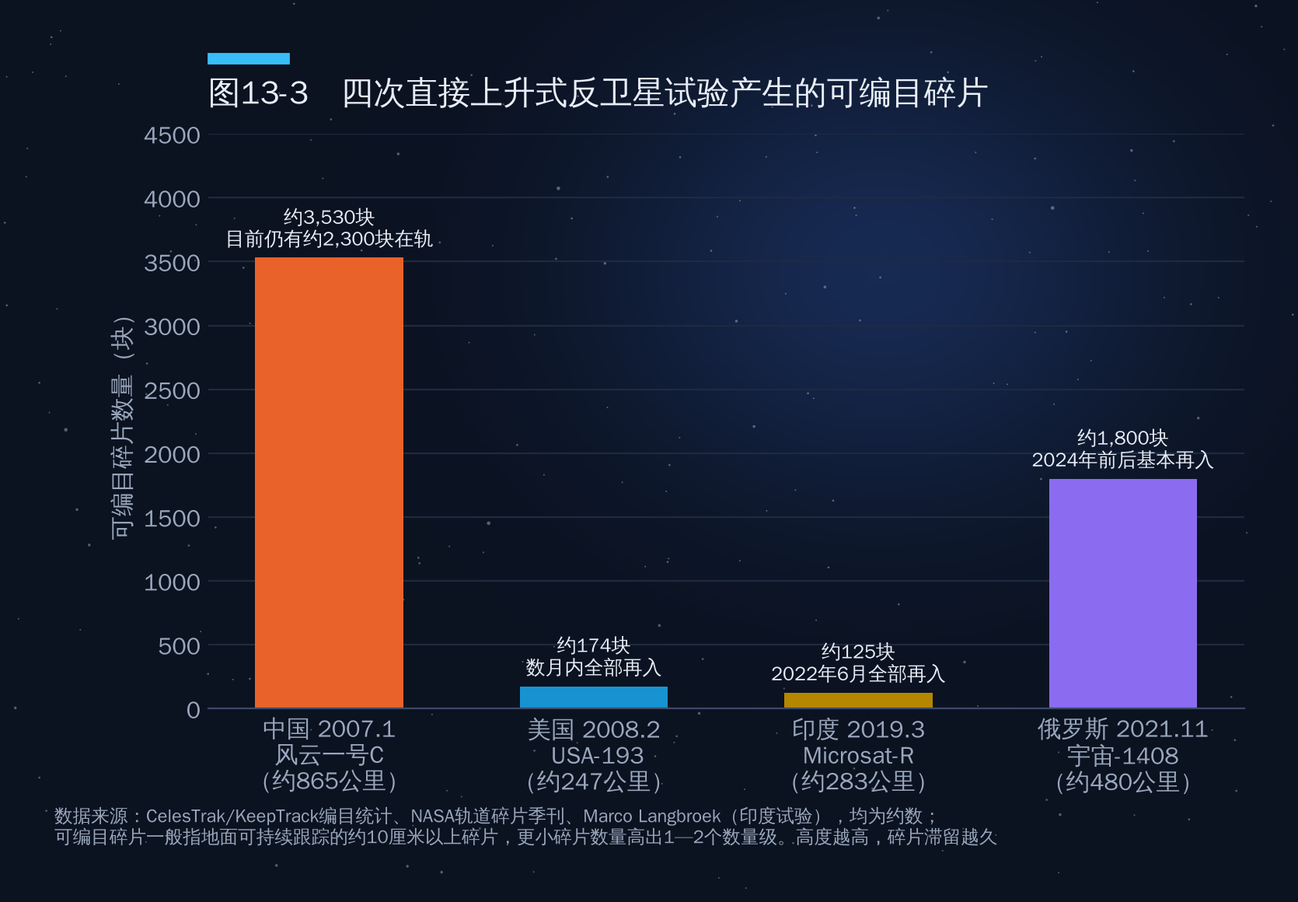
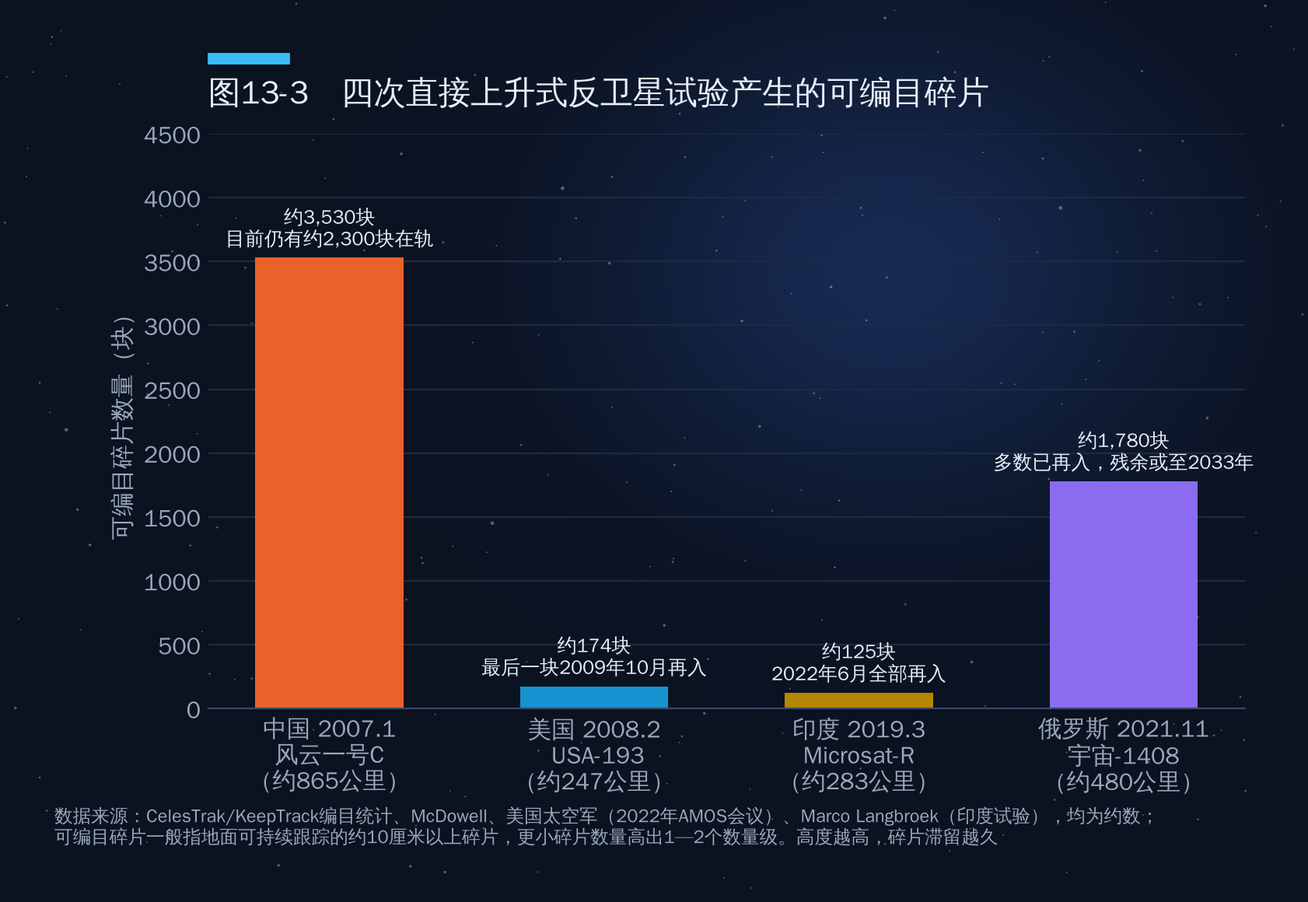
Part II: third-round exhaustive fact-check; fig 9-3 adds IN/KR/AE/SA
Claude-Session: https://claude.ai/code/session_014tmLkR5ogaDPRCKC77QLgm

diff --git a/doha-space-economy/part2/charts/fig9-3_gov_budget_by_country.py b/doha-space-economy/part2/charts/fig9-3_gov_budget_by_country.py
@@ -13,18 +13,24 @@ rows = [  # 名称, 支出, GDP（欧盟为机构预算，不计算占比）
     ("法国", 3.7, 3162),
     ("德国", 2.8, 4660),
     ("意大利", 2.6, 2373),
+    # 以下四项为Novaspace第25版2025年数据（经newspaceeconomy.ca转引Novaspace 2026年1月20日发布），不计算占比
+    ("印度*", 1.794, None),
+    ("韩国*", 1.167, None),
+    ("阿联酋*", 0.574, None),
+    ("沙特*", 0.530, None),
 ]
 names = [r[0] for r in rows]
 y = list(range(len(rows)))[::-1]
-fig, axes = plt.subplots(1, 2, figsize=(10, 5), gridspec_kw={"width_ratios": [1.25, 1]})
+fig, axes = plt.subplots(1, 2, figsize=(10, 6), gridspec_kw={"width_ratios": [1.25, 1]})
 
 ax = axes[0]
-cols = [PALETTE[0], ACCENT] + [PALETTE[2]] * 6
+cols = [PALETTE[0], ACCENT] + [PALETTE[2]] * 6 + [PALETTE[4]] * 4
 ax.barh(y, [r[1] for r in rows], color=cols, height=0.6)
 for yi, r in zip(y, rows):
-    ax.text(r[1] + 1.2, yi, f"{r[1]:.1f}", va="center", fontsize=10)
+    ax.text(r[1] + 1.2, yi, f"{r[1]:.1f}" if r[1] >= 1 else f"{r[1]:.2f}", va="center", fontsize=10)
 ax.set_yticks(y); ax.set_yticklabels(names)
 ax.set_xlim(0, 92)
+ax.set_ylim(-0.7, len(rows) - 0.4)
 ax.grid(axis="x"); ax.grid(axis="y", visible=False)
 ax.set_xlabel("十亿美元（2024年）")
 ax.set_title("政府航天支出", fontsize=12)
@@ -33,17 +39,19 @@ ax = axes[1]
 shares = [(r[1] / r[2] * 100) if r[2] else None for r in rows]
 for yi, s, c in zip(y, shares, cols):
     if s is None:
-        ax.text(0.005, yi, "不适用", va="center", fontsize=9.5, color=GREY)
+        ax.text(0.005, yi, "不适用" if yi == y[3] else "未计算", va="center", fontsize=9.5, color=GREY)
         continue
     ax.barh(yi, s, color=c, height=0.6)
     ax.text(s + 0.006, yi, f"{s:.2f}%", va="center", fontsize=10)
 ax.set_yticks(y); ax.set_yticklabels([])
 ax.set_xlim(0, 0.34)
+ax.set_ylim(-0.7, len(rows) - 0.4)
 ax.grid(axis="x"); ax.grid(axis="y", visible=False)
 ax.set_xlabel("占本国GDP比重（%）")
 ax.set_title("投入强度：占GDP比重", fontsize=12)
 
-fig.suptitle("图9-3　主要国家和地区政府航天支出及占GDP比重（2024年）", fontsize=14, fontweight="bold", y=1.02)
+fig.suptitle("图9-3　主要国家和地区政府航天支出及占GDP比重（2024年；*为2025年）", fontsize=14, fontweight="bold", y=1.02)
 source_note(fig, "数据来源：支出为Novaspace《Government Space Programs》第24版（经Statista转引），含民用与国防；中国为外部估算。\n"
-                 "GDP为IMF《世界经济展望》2025年4月版2024年名义值，占比为作者计算。欧洲各国与欧盟机构的数字口径可能交叉，不宜相加。")
+                 "GDP为IMF《世界经济展望》2025年4月版2024年名义值，占比为作者计算。欧洲各国与欧盟机构的数字口径可能交叉，不宜相加。\n"
+                 "*印度、韩国、阿联酋、沙特为Novaspace第25版2025年数据（经newspaceeconomy.ca转引），年份不同，仅供量级参考。")
 save(fig, __file__)

diff --git a/doha-space-economy/part4/charts/fig13-2_filings_vs_deployed.py b/doha-space-economy/part4/charts/fig13-2_filings_vs_deployed.py
@@ -8,7 +8,7 @@ rows = [
     ("卢旺达 Cinnamon-217/937\n（2021年申报）", 327320, None),
     ("中国 CTC-1/CTC-2\n（2025年12月申报）", 193428, None),
     ("SpaceX 星链\n（一代+二代）", 42000, 10900),
-    ("中国 千帆（垣信）", 14000, 238),
+    ("中国 千帆（垣信，规划数）", 14000, 238),
     ("中国 国网（GW）", 12992, 204),
     ("中国 鸿鹄-3（蓝箭关联）", 10000, None),
     ("亚马逊 Leo（柯伊伯）", 3236, 396),
@@ -21,7 +21,7 @@ h = 0.38
 fig, ax = plt.subplots(figsize=(9.2, 5.4))
 ax.barh(y - h/2, filed, h, color=GREY, label="向ITU申报/拟建数量")
 dep_vals = [d if d else 0 for d in dep]
-ax.barh(y + h/2, [d if d else np.nan for d in dep], h, color=PALETTE[0], label="实际在轨数量（2026年最新）")
+ax.barh(y + h/2, [d if d else np.nan for d in dep], h, color=PALETTE[0], label="已部署数量（2026年最新）")
 ax.set_xscale("log")
 ax.set_xlim(80, 2_000_000)
 for i, (f, d) in enumerate(zip(filed, dep)):
@@ -36,5 +36,5 @@ ax.grid(axis="x", color="#E5E5E5", which="major"); ax.grid(axis="y", visible=Fal
 ax.set_xlabel("卫星数量（颗，对数坐标）")
 ax.legend(loc="lower right", fontsize=9.5)
 ax.set_title("图13-2　主要低轨星座：ITU申报数与实际部署数（对数坐标）")
-source_note(fig, "数据来源：ITU卫星网络数据库及相关报道（卢旺达、CTC、鸿鹄-3、国网、千帆申报数）；星链在轨约10,900颗（KeepTrack，2026年8月5日）；\n亚马逊Leo 396颗（2026年7月2日发射后）；国网低轨组网星204颗（截至2026年9月，公开统计）；千帆238颗（上海垣信，2026年7月9日）；\n星链申报数为约数（一代约1.2万+二代约3万）；括号内为部署数/申报数")
+source_note(fig, "数据来源：ITU卫星网络数据库及相关报道（卢旺达、CTC、鸿鹄-3、国网、千帆申报数）；星链在轨约10,900颗（KeepTrack，2026年8月5日）；\n亚马逊Leo 396颗（2026年7月2日发射后）；国网低轨组网星204颗（截至2026年9月，公开统计）；千帆已发射238颗（含二十余颗失效，McDowell）；\n星链申报数为约数（一代约1.2万+二代约3万）；括号内为部署数/申报数")
 save(fig, __file__)

diff --git a/doha-space-economy/part5/charts/fig14-2_structure.py b/doha-space-economy/part5/charts/fig14-2_structure.py
@@ -25,17 +25,17 @@ ax1.legend(fontsize=8.5, loc="upper left")
 # Right: McKinsey/WEF backbone vs reach
 yrs = ["2023", "2035（预测）"]
 backbone = [330, 755]
-reach = [300, 1035]
+reach = [300, 1045]  # 2035: "超过1万亿"，按1.8万亿-755推算
 ax2.bar(x, backbone, color=PALETTE[2], width=0.55, label="“骨干”（backbone）：卫星、发射、通信与数据服务")
 ax2.bar(x, reach, bottom=backbone, color=PALETTE[4], width=0.55, label="“延伸”（reach）：太空赋能的行业收入")
 for i in range(2):
     ax2.text(i, backbone[i] / 2, f"{backbone[i]}", ha="center", color="white", fontsize=10)
-    ax2.text(i, backbone[i] + reach[i] / 2, f"{reach[i]:,}", ha="center", color="white", fontsize=10)
-    ax2.text(i, backbone[i] + reach[i] + 25, f"合计{backbone[i]+reach[i]:,}", ha="center", fontsize=10, fontweight="bold")
+    ax2.text(i, backbone[i] + reach[i] / 2, f"{reach[i]:,}" if i == 0 else "1,000以上", ha="center", color="white", fontsize=10)
+    ax2.text(i, backbone[i] + reach[i] + 25, f"合计{backbone[i]+reach[i]:,}" if i == 0 else "合计约1,800", ha="center", fontsize=10, fontweight="bold")
 ax2.set_xticks(x, yrs)
-ax2.set_ylim(0, 2100)
+ax2.set_ylim(0, 2350)
 ax2.set_title("骨干与延伸：麦肯锡/WEF口径", fontsize=12)
 ax2.legend(fontsize=8.5, loc="upper left")
 fig.suptitle("图解太空经济的结构（十亿美元）", fontsize=14, fontweight="bold", y=1.02)
-source_note(fig, "数据来源：Space Foundation《The Space Report》2025 Q2（2024年）与2026年7月发布（2025年，其他国家政府预算=1410-783亿美元推算）；\n世界经济论坛/麦肯锡《Space: The $1.8 Trillion Opportunity for Global Economic Growth》（2024年4月）。")
+source_note(fig, "数据来源：Space Foundation《The Space Report》2025 Q2（2024年）与2026年7月发布（2025年，其他国家政府预算=1410-783亿美元推算）；\n世界经济论坛/麦肯锡《Space: The $1.8 Trillion Opportunity for Global Economic Growth》（2024年4月）；2035年\u201c延伸\u201d原文为\u201c超过1万亿\u201d，柱高按1.8万亿减755推算。")
 save(fig, __file__)

diff --git a/doha-space-economy/part2/charts/fig8-1_sbsp_timeline.py b/doha-space-economy/part2/charts/fig8-1_sbsp_timeline.py
@@ -13,10 +13,10 @@ ev = [
     ("美国", 2024.0, "美国：NASA OTPS评估——2050年成本仍远高于地面", True),
     ("欧洲", 2025.9, "欧洲：SOLARIS原定就是否进入全面开发作出决策", True),
     ("日本", 2026.5, "日本：OHISAMA小卫星在轨传能演示（计划FY2026）", False),
-    ("中国", 2028.0, "中国：约400公里轨道无线传能试验星（计划）", False),
-    ("中国", 2030.0, "中国：兆瓦级空间太阳能电站（计划）", False),
+    ("中国", 2028.0, "中国：低轨10千瓦级无线传能试验（2022年规划）", False),
+    ("中国", 2030.0, "中国：兆瓦级在轨试验（2026年报道仍为2030年前后）", False),
     ("英国", 2030.0, "英国：Space Solar在轨演示（公司目标）", False),
-    ("中国", 2049.5, "中国：吉瓦级商业化空间电站（远期目标）", False),
+    ("中国", 2050.0, "中国：2吉瓦级空间电站（远期目标）", False),
 ]
 fig, ax = plt.subplots(figsize=(10, 5.4))
 ax.grid(axis="x"); ax.grid(axis="y", visible=False)
@@ -34,5 +34,5 @@ ax.set_xticks([2015, 2020, 2025, 2030, 2035, 2040, 2045, 2050])
 handles = [Line2D([], [], marker="o", ls="", color=v, ms=8, label=k) for k, v in colors.items()]
 ax.legend(handles=handles, loc="upper right", ncol=1, fontsize=9)
 ax.set_title("图8-1　太空太阳能电站：主要里程碑与计划（实心=已发生，空心=计划）")
-source_note(fig, "数据来源：Caltech（2023）；NASA OTPS《Space-Based Solar Power》（2024）；ESA SOLARIS项目页；南华早报、The Week等对中国计划的报道（2021—2022）；\nJAXA/J-spacesystems（2025）；Space Solar公司公开信息。计划节点均为相关机构公布的目标，可能调整。")
+source_note(fig, "数据来源：Caltech（2023）；NASA OTPS《Space-Based Solar Power》（2024）；ESA SOLARIS项目页；南华早报、Aviation Week等对中国计划的报道（2021—2022）；人民日报、新华社（2026）；\nJAXA/J-spacesystems（2025）；Space Solar公司公开信息。计划节点均为相关机构公布的目标，可能调整。")
 save(fig, __file__)

diff --git a/doha-space-economy/part4/charts/fig13-3_asat_debris.py b/doha-space-economy/part4/charts/fig13-3_asat_debris.py
@@ -3,8 +3,8 @@ sys.path.insert(0, str(pathlib.Path(__file__).resolve().parents[2] / "common"))
 from chartstyle import plt, PALETTE, ACCENT, GREY, save, source_note
 
 tests = ["中国 2007.1\n风云一号C\n（约865公里）", "美国 2008.2\n USA-193\n（约247公里）", "印度 2019.3\nMicrosat-R\n（约283公里）", "俄罗斯 2021.11\n宇宙-1408\n（约480公里）"]
-cat = [3530, 174, 125, 1800]
-note = ["约3,530块\n目前仍有约2,300块在轨", "约174块\n数月内全部再入", "约125块\n2022年6月全部再入", "约1,800块\n2024年前后基本再入"]
+cat = [3530, 174, 125, 1780]
+note = ["约3,530块\n目前仍有约2,300块在轨", "约174块\n最后一块2009年10月再入", "约125块\n2022年6月全部再入", "约1,780块\n多数已再入，残余或至2033年"]
 fig, ax = plt.subplots(figsize=(8.6, 4.8))
 cols = [ACCENT, PALETTE[0], PALETTE[3], PALETTE[4]]
 bars = ax.bar(tests, cat, color=cols, width=0.56)
@@ -13,5 +13,5 @@ for b, t in zip(bars, note):
 ax.set_ylim(0, 4500)
 ax.set_ylabel("可编目碎片数量（块）")
 ax.set_title("图13-3　四次直接上升式反卫星试验产生的可编目碎片")
-source_note(fig, "数据来源：CelesTrak/KeepTrack编目统计、NASA轨道碎片季刊、Marco Langbroek（印度试验），均为约数；\n可编目碎片一般指地面可持续跟踪的约10厘米以上碎片，更小碎片数量高出1—2个数量级。高度越高，碎片滞留越久")
+source_note(fig, "数据来源：CelesTrak/KeepTrack编目统计、McDowell、美国太空军（2022年AMOS会议）、Marco Langbroek（印度试验），均为约数；\n可编目碎片一般指地面可持续跟踪的约10厘米以上碎片，更小碎片数量高出1—2个数量级。高度越高，碎片滞留越久")
 save(fig, __file__)

diff --git a/doha-space-economy/part4/charts/fig12-2_treaty_ratifications.py b/doha-space-economy/part4/charts/fig12-2_treaty_ratifications.py
@@ -17,5 +17,5 @@ ax.annotate("美、俄、中均未加入；\n沙特2024年1月退出", xy=(4, 24
 ax.set_ylim(0, 205)
 ax.set_ylabel("缔约国数量（个）")
 ax.set_title("图12-2　联合国五大外空条约缔约国数量（截至2025年底—2026年初）")
-source_note(fig, "数据来源：UNOOSA《与外空活动有关的国际协定现况》（截至2025年1月1日及2026年1月1日版）、联合国裁军事务厅（马来西亚2025年10月成为OST第118个缔约国）；\n《登记公约》2025年1月1日为76国，此后厄瓜多尔等加入，2026年初约78国")
+source_note(fig, "数据来源：UNOOSA《与外空活动有关的国际协定现况》（截至2025年1月1日及2026年1月1日版）、联合国裁军事务厅（马来西亚2025年10月成为OST第118个缔约国）；\n《登记公约》2025年1月1日为76国，此后厄瓜多尔、马来西亚（2025年9月）加入，2026年初约78国")
 save(fig, __file__)

diff --git a/doha-space-economy/part5/charts/fig14-5_investment.py b/doha-space-economy/part5/charts/fig14-5_investment.py
@@ -18,5 +18,5 @@ ax.set_ylim(0, 78)
 ax.set_ylabel("十亿美元")
 ax.set_title("全球太空领域私人投资（十亿美元）")
 ax.legend(loc="upper left", fontsize=9)
-source_note(fig, "数据来源：Seraphim Space Index（2024年Q4、2025年全年、2026年Q1/Q2报告；2026上半年=80+75亿美元）；Space Capital《Space Investment Quarterly》\n（2023年179亿；2025年553亿；2024年按2025年同比增长65%反推；2026上半年=Q1 360亿+Q2 316亿）。两家口径不同，不可直接相加或比较。")
+source_note(fig, "数据来源：Seraphim Space Index（2024年Q4、2025年全年、2026年Q1/Q2报告；2026上半年=80+75亿美元）；Space Capital《Space Investment Quarterly》\n（2023年179亿；2025年553亿；2024年按2025年同比增长65%反推修订值，2025年1月原报约260亿；2026上半年=Q1 360亿+Q2 316亿）。两家口径不同，不可直接相加或比较。")
 save(fig, __file__)

diff --git a/doha-space-economy/part2/charts/fig7-5_starlink_maneuvers.py b/doha-space-economy/part2/charts/fig7-5_starlink_maneuvers.py
@@ -14,5 +14,5 @@ ax.set_xticks(range(len(vals))); ax.set_xticklabels(periods, fontsize=9.5)
 ax.set_ylabel("避碰机动次数（万次）")
 ax.set_ylim(0, 23.5)
 ax.set_title("图7-5　星链卫星每半年避碰机动次数")
-source_note(fig, "数据来源：SpaceX向FCC提交的半年度报告（经Space.com、Space Intel Report等转引）。\n2023年12月—2024年5月一期报道为“近5万次”，精确数未核实。")
+source_note(fig, "数据来源：SpaceX向FCC提交的半年度报告（经Space.com、Space Intel Report等转引）。\n2023年12月—2024年5月一期报道为“近5万次”（精确数未公开转引）；该期及2024年12月—2025年5月一期均调低了机动门槛。")
 save(fig, __file__)

diff --git a/doha-space-economy/part2/charts/fig7-4_active_growth.py b/doha-space-economy/part2/charts/fig7-4_active_growth.py
@@ -10,7 +10,7 @@ pts = [
     (2023.33, 7560, "2023.5"),
     (2024.54, 10036, "2024.7"),
     (2025.75, 13026, "2025.10"),
-    (2026.10, 14588, "2026.2"),
+    (2026.10, 14543, "2026.2"),
     (2026.75, 16913, "2026.9"),
 ]
 x = [p[0] for p in pts]; yv = [p[1] for p in pts]

diff --git a/doha-space-economy/part2/zz_notes.md b/doha-space-economy/part2/zz_notes.md
@@ -2,49 +2,56 @@
 
 ### 数据来源
 
-- ESA《Space Environment Report 2025》《2026》及ESA空间环境统计（2026年7月31日更新）；NASA轨道碎片项目办公室《Orbital Debris Quarterly News》（2026年）
-- Jonathan McDowell, Jonathan's Space Pages（planet4589.org，在轨卫星分轨道统计，2026年2月、6月、9月）；UCS卫星数据库；Look Up × Le Point太空晴雨表（2025年10月）
-- FCC星链授权文件：2018年3月、11月，2020年修改许可，2022年12月1日Gen2部分授权，2026年1月9日Gen2追加授权；Spaceflight Now、Via Satellite、SpaceNews相关报道
-- SpaceX：Michael Nicolls 2026年1月1日降轨公告；SpaceX向FCC提交的星链半年度报告（经Space.com、Space Intel Report转引）；星舰第14次飞行报道（2026年9月）
-- 中国卫星导航系统管理办公室、UNOOSA/ICG北斗报告（北斗三号星座构成与建成时间）
-- 国际电信联盟资料及Light Reading、Advanced Television对中国CTC-1/CTC-2申报的报道（2026年1月）
-- NICT辐射带资料；Kessler & Cour-Palais (1978), JGR；McDowell (2018), Acta Astronautica
-- 月球资源：月球资源综述（arXiv:1410.6865）；NASA Mini-SAR与LCROSS结果；新华社关于嫦娥石的报道（2022年）
-- MOXIE：NASA/JPL、MIT 2023年9月任务总结
-- Interlune、Bluefors、美国能源部新闻稿（2025年5月、9月）
-- NASA OTPS《Space-Based Solar Power》（2024年1月）；Caltech空间太阳能项目（2023年）；ESA SOLARIS项目页；JAXA/J-spacesystems（2025年）；新华社（2026年5月，逐日工程）；Kairos第三次发射报道（2026年3月）
-- Varda Space Industries融资及任务公告；AstroForge、ispace相关报道（SpaceNews、Sky & Telescope，2025年）
-- Novaspace《Government Space Programs》第24、25版新闻稿；Statista（含德文版国别信息图）；IMF《世界经济展望》2025年4月版；newspaceeconomy.ca（2026年1月，二手）
-- NASA 2026财年拨款（P.L. 119-74，SpacePolicyOnline、Space.com）；美国太空军2026财年预算（SpacePolicyOnline、Aerospace CSPS）
-- 国家航天局《推进商业航天高质量安全发展行动计划（2025—2027年）》（中国新闻网、新华网）；新华社关于"天工开物"专项论证的报道（2026年1月）；SpaceNews关于长期路线图的报道
-- ESA部长级会议（2025年11月）：SpacePolicyOnline、heise；欧盟委员会IRIS²及《欧盟太空法》公告
-- 阿联酋航天局、穆罕默德·本·拉希德航天中心、沙特航天局、Es'hailSat、卢森堡航天局、IN-SPACe、日本内阁府、韩国KASA公开信息；韩国《宇宙航空产业培育战略》（2026年7月3日，世界日报、纽西斯）
-- Colaprete et al. (2010), Science 330；Spaceflight Now（2019年4月，沙克提碎片）；GPS World（2018年4月，突尼斯北斗中心）；Communications Daily、Satnews、Advanced Television（星链V频段及新申请）
+- ESA《Space Environment Report》2025、2026及空间环境统计（2026年7月31日）；NASA轨道碎片项目办公室（2026年8月）
+- McDowell, Jonathan's Space Pages（planet4589.org）；UCS卫星数据库；Look Up × Le Point太空晴雨表（2025年10月）
+- FCC星链授权文件（2018、2020、2022、2026年）；SpaceX半年度报告（经Space.com、Space Intel Report转引）；Spaceflight Now、Advanced Television、Via Satellite
+- 中国卫星导航系统管理办公室、UNOOSA；新华社、人民日报、中国新闻网、C114通信网
+- Kessler & Cour-Palais (1978)；McDowell (2018)；Crawford, Lunar Resources: A Review (arXiv:1410.6865)；Fa & Jin (2007)；Wittenberg等 (1986)；Colaprete等 (2010)
+- NASA/JPL（MOXIE、Mini-SAR）；NASA OTPS《Space-Based Solar Power》（2024）；Caltech；ESA SOLARIS项目页；Aviation Week
+- Interlune、Bluefors、美国能源部；Varda、AstroForge、ispace相关报道
+- Novaspace《Government Space Programs》第24、25版新闻稿（Statista、newspaceeconomy.ca转引）；IMF《世界经济展望》2025年4月
+- NASA 2026财年拨款（Space.com、SpacePolicyOnline）；美国太空军预算（Aerospace CSPS）；CBO（2025年5月）
+- ESA部长级会议（DLR、European Spaceflight、SpacePolicyOnline）；欧盟委员会IRIS²、《欧盟太空法》
+- 各国航天机构公开信息；Spaceflight Now、GPS World、Communications Daily、Satnews
 
 ### 数据核查说明（原文说法 → 核实结果 → 来源）
 
-1. "SpaceX拿到监管许可的星座总上限为42000颗" → 不准确。42000颗是约1.2万颗已获批加2019年向ITU申报的3万颗之和，为规划上限；截至2026年10月FCC实际批准约1.9万颗（Gen1 4408颗加Gen2 15000颗）→ FCC文件、Spaceflight Now（2019）、Via Satellite（2026）。
-2. "一期550公里4408颗、二期340公里7518颗、三期3万颗" → 部分准确。4408颗分布在540—570公里五个壳层，并非全在550公里；7518颗为2018年批准的约340公里V频段系统；"三期3万颗"为ITU申报，Gen2实获批15000颗 → 同上。
-3. "275公里：V3卫星运行在这一超低轨道" → 修正为"星舰第14次飞行在约275公里释放V3卫星，卫星随后自行升轨" → 飞行前计划及发射后报道（2026年9月）。
-4. "倾角覆盖43°至97°" → 修正为33°至约97.6°（Gen2首批含33°壳层）→ FCC 2022年12月授权。
-5. "2026年1月启动重组，约4400颗由550公里降至480公里" → 属实，公告日期为2026年1月1日 → SpaceX尼科尔斯公告。
-6. "GEO约1800个轨位" → 1800为按0.2°间隔的理论数；按2°间隔单一频段约180个 → 行业资料、McDowell（2026年2月）。
-7. "高地球轨道（GEO）：高度35786公里以上" → 修正：GEO为35786公里的特定圆轨道；HEO通常指大椭圆轨道。
-8. 大气分层数字（提纲与作者原图不一致）→ 各层边界随纬度和太阳活动变化，正文采用区间表述；原图标注见第19条。
-9. 北斗三号"24 MEO+3 IGSO+3 GEO" → 属实；30颗于2020年6月23日发射完毕，7月31日正式开通 → 中国卫星导航系统管理办公室、UNOOSA。
-10. "2万个直径超10厘米的太空碎片" → 已过时。ESA 2025年报告：>10厘米约5.4万个（模型）；2026年7月被跟踪约47070个 → ESA。
-11. 范艾伦辐射带条目未写完 → 已补全（内外带高度、粒子、危害、南大西洋异常）→ NICT等。
-12. "天工开物：2030年前形成深空勘探能力，2040年前小规模开发" → 未找到出处。公开信息为：2026年1月由中国航天科技集团提出开展专项"论证"；长期设想节点为2035、2050、2075、2100年 → 新华社、SpaceNews。
-13. 行动计划"2025年11月发布" → 属实，国家航天局印发，五方面22项举措 → 中国新闻网、新华网。
-14. 各国政府航天预算（第二轮已核实）→ 2024年：美国797亿、中国约199亿（外部估算）、日本68亿、欧盟机构67亿、俄罗斯40亿、法国37亿、德国28亿、意大利26亿美元，新增图9-3；占GDP比重为作者按IMF数据计算 → Novaspace第24版（Statista转引）、IMF。阿联酋、沙特仅见二手资料。
-15. 星链避碰机动（第二轮已核实）→ 2023年6—11月24410次；2024年12月—2025年5月144404次；"约5万"一期报道为"近5万次"，图7-5已补齐 → Space.com、Space Intel Report。
-16. 7518颗V频段授权（第二轮已核实）→ 2018年单独批准，后以第二代卫星搭载V频段载荷实施，2024年11月获准在340—360公里使用V频段，故不另计 → Communications Daily、Satnews。
-17. 空间太阳能（第二轮）→ OHISAMA计划由Kairos火箭发射，Kairos 2026年3月第三次失败，未见发射报道；"逐日工程"2026年5月地面验证百米级约1.2千瓦、效率20.8% → 新华社。
-18. 第二轮已核实：沙克提约400块（NASA估计，编目约100块）；LCROSS含水5.6%±2.9% → Colaprete等（2010）；中阿北斗/GNSS中心2018年4月在突尼斯揭牌 → GPS World；韩国2032年登月属实，2026年7月新增2030年民营小型着陆器计划 → 韩国媒体。
-19. 原图"伽马射线100千米"→ 判断应为"卡门线100千米"：100公里正是卡门线的通用高度，伽马射线并无对应100公里的分界，且原图其余标注均为分层边界。建议改图。
+1. "星座上限42000颗" → 为申报上限；FCC实批约1.9万颗（Gen1 4408加Gen2 15000）→ FCC文件。
+2. "一期550公里4408颗、二期340公里7518颗、三期3万颗" → 4408颗分布于540—570公里五壳层；7518颗为V频段系统；Gen2实批15000颗 → 同上。
+3. "275公里：V3运行高度" → 改为星舰第14次飞行入轨高度，卫星自行升轨 → 2026年9月报道。
+4. "倾角43°至97°" → 改为33°至约97.6° → FCC 2022年12月授权。
+5. 2026年降轨至480公里 → 属实，2026年1月1日公告 → SpaceX尼科尔斯。
+6. "GEO约1800个轨位" → 0.2°间隔理论数；2°间隔约180个。
+7. "GEO为35786公里以上" → GEO为35786公里圆轨道，HEO指大椭圆轨道。
+8. 大气分层数字 → 采用区间表述；原图"伽马射线100千米"应为"卡门线"。
+9. 北斗三号24+3+3 → 属实，2020年7月31日开通 → 北斗办、UNOOSA。
+10. "2万个超10厘米碎片" → 过时；ESA：>10厘米约5.4万个，2026年7月被跟踪约47070个。
+11. 范艾伦辐射带条目 → 已补全 → NICT等。
+12. "天工开物2030/2040年节点" → 未找到出处；公开信息为2026年1月中国航天科技集团提出"论证"，长期节点2035、2050、2075、2100年 → 新华社、SpaceNews。
+13. 行动计划2025年11月发布、五方面22项 → 属实。
+14. 第二轮：2024年各国政府航天支出及图9-3 → Novaspace第24版、IMF。
+15. 第二轮：星链避碰机动各期数字；V频段不另计；沙克提约400块；LCROSS含水5.6%；突尼斯北斗中心2018年；韩国登月计划；OHISAMA与逐日工程。
 
-### 未能核实、请作者确认的事项
+### 第三轮核查（2026年10月8日，检索37次）
 
-- ESA SOLARIS在2025年部长级会议上的结论；中国空间太阳能电站2028/2030年节点的官方更新。
-- 星链2023年12月—2024年5月避碰机动精确次数。
-- 印度、韩国、海湾国家的同口径航天支出；欧洲各国与欧盟机构数字是否交叉。
+已核实（第三轮）→ 结论 → 来源：
+- 图7-2/正文"活跃卫星14588颗" → 改为约14540颗（McDowell 2026年2月7日页面小卫星1521.5加大卫星13021.5；各轨道分项与图7-2一致），图7-4同步改为14543 → planet4589（检索缓存）。
+- 图7-3星链Gen1五壳层参数、Gen2三壳层 → 属实 → McDowell星座模型；2026年1月FCC追加授权的50%期限、14988颗暂缓、340—485公里壳层 → 属实 → FCC DOC-417881A1；申报1.5万颗甚低轨（2025年）、10万颗Gen3（2026年7月）→ 属实 → Advanced Television。
+- 千帆"218颗" → 更新为9月16日在轨约256颗；国网约204颗 → C114、维基百科。
+- 表7-2：风云一号C"3000余块"→3500余块；铱星碰撞"789公里、2000余块"→约790公里、约2300块；宇宙1408号约480公里、1500余块属实 → NASA、CelesTrak、美国国务院。
+- 避碰机动：2023年12月—2024年5月精确数仍未查到（报道均为"近5万"）；该期与2024年12月—2025年5月两期均调低了机动门槛，正文已补 → Space.com、Space Intel Report。
+- ESA 2026年报告健康指数由约4升至约50 → ESA。NASA编目34054个（2026年8月4日）、ESA 47070个属实。
+- 中国空间太阳能电站 → 2022年规划为2028年低轨10千瓦级试验（传输约400公里）、2030年GEO兆瓦级、2035年10兆瓦、2050年2吉瓦，原文"400公里轨道""2050年吉瓦级"已修正；2026年报道下一节点为2030年前后兆瓦级在轨试验 → Aviation Week、人民日报、新华社。
+- 图8-2 → 0.61/1.59美元/千瓦时、地面0.02—0.05、发射占71%/77%、乐观情形0.03均属实 → NASA OTPS。
+- 月球资源 → 北极40多个坑至少6亿吨水冰（NASA）；氦-3约100万吨（Wittenberg等1986）、平均约4ppb、实测最高约10ppb、富钛月海模型超20ppb（Fa & Jin 2007）属实。
+- 表8-2 → Interlune三份合同、约2000万美元/公斤；AstroForge Odin约350万美元、累计融资5500万美元；Varda C轮1.87亿、累计3.29亿美元属实。
+- 第9章 → Novaspace 2025年1374亿美元、国防735亿（54%）、高峰2028—2029年；美国份额2000年超75%；NASA 244亿、科学72.5亿、申请188亿；太空军263亿加138亿；CBO天基拦截器20年1610亿—5420亿美元；阿尔忒弥斯2号4月1日发射、4月10日溅落；ESA约221亿欧元、增32%、德国约51亿欧元（现价约54亿）；IRIS²约106亿欧元、290颗；嫦娥七号2026年8月宣布不能在预定窗口发射 → 均属实。ESA成员国"22个"→23个。
+- 印度、韩国、阿联酋、沙特 → Novaspace第25版2025年数据（经newspaceeconomy.ca转引）分别约17.9亿、11.7亿、5.7亿、5.3亿美元，已以"2025年"标注补入图9-3，未计算GDP占比。
+
+### 未能核实、请作者确认
+
+- ESA SOLARIS在2025年部长级会议上的结论：ESA及媒体会议报道均未提及，未检索到决定。
+- 星链2023年12月—2024年5月避碰机动精确数：原始FCC文件未能访问，转引报道只写"近5万"。
+- 2024年同口径（Novaspace第24版）的印度、韩国、海湾国家支出：报告收费，Statista页面被拦截。
+- 图7-4中2026年9月16913颗、星链2026年6月10634颗：planet4589被拦截，二手资料口径不一。
+- 欧洲各国与欧盟机构预算是否交叉：口径问题，无公开拆分。

diff --git a/doha-space-economy/part4/zz_notes.md b/doha-space-economy/part4/zz_notes.md
@@ -2,50 +2,48 @@
 
 ### 数据来源
 
-1. UNOOSA：《与外空活动有关的国际协定现况》（截至2025年1月1日，A/AC.105/C.2/2025/CRP.9；截至2026年1月1日，A/AC.105/C.2/2026/CRP.9/Rev.1）；外空委会议文件；2023年法律小组委员会中国代表发言。
-2. 联合国裁军事务厅、美国国务院保存人通知：马来西亚2025年10月21日成为《外层空间条约》第118个缔约国。
-3. 安全世界基金会（SWF）：外空委成员扩容分析（2026年7月）；DA-ASAT试验承诺追踪（2025年1月）。
-4. NASA、美国国务院：《阿尔忒弥斯协定》历次签署公告；Payload、SpacePolicyOnline相关报道。
-5. 中国政府网等：国际月球科研站相关发布；SpaceNews关于ILRS"555"目标的报道。
-6. 加拿大条约数据库（CTS 1981 No. 8）、JAXA空间法资料库、加拿大外交部分析：宇宙954号案。
-7. 美国国会《商业航天发射竞争法》；卢森堡2017年7月20日法律；阿联酋2019年第12号联邦法；日本2021年《空间资源法》；十四届全国人大常委会立法规划（2023年9月）。
-8. ITU：《国际电联组织法》第44条；《无线电规则》第11.44款、第22条、第35号决议（Rev. WRC-23）；ITU 2024年区域研讨会"第8号和第35号决议"材料。
-9. 卢旺达申报：Space in Africa、Advanced Television（2021年10月）；中国2025年12月申报：Light Reading、IEEE ComSoc Techblog、Advanced Television（2026年1月）。
-10. FCC：5年离轨规则（2022年9月29日）；星链二代追加7500颗授权（2026年1月9日）；亚马逊Leo部署期限豁免（2026年6月5日，Via Satellite等报道）。
-11. 星座部署：KeepTrack（星链，2026年8月5日）；亚马逊Leo（2026年7月2日发射后396颗）；上海垣信（千帆238颗，2026年7月9日）；国网公开统计（2026年9月）。
-12. 美国商务部太空商务办公室：《欧盟太空法》进展通报（2026年5月）。
-13. ESA《2025年空间环境报告》；CelesTrak、KeepTrack、NASA轨道碎片季刊、Marco Langbroek（反卫星试验碎片）；联合国数字图书馆A/RES/77/41表决记录。
+1. UNOOSA《与外空活动有关的国际协定现况》（截至2025年1月1日，A/AC.105/C.2/2025/CRP.9及Corr.1；2026年版CRP.9/Rev.1）；马来西亚科技创新部公告（2025年9月26日交存）；联合国裁军事务厅。
+2. 安全世界基金会（SWF）：外空委扩容分析、DA-ASAT承诺追踪；马尔代夫外交部。
+3. NASA、美国国务院：《阿尔忒弥斯协定》签署公告。
+4. 中国政府网、新华社、SpaceNews：ILRS；深空探测实验室与沙迦大学备忘录（2023年11月14日）。
+5. 加拿大条约数据库、加拿大卫生部：宇宙954号；CelesTrak、NASA：铱星—宇宙碰撞。
+6. 美国国会、卢森堡、阿联酋（2019年第12号联邦法、2023年内阁第19号决议）、日本相关法律；十三、十四届全国人大常委会立法规划。
+7. ITU：《组织法》第44条、《无线电规则》、第35号决议（Rev. WRC-23）及2024年研讨会材料；ITU关于WRC-27在上海举行的公告。
+8. Space in Africa（卢旺达申报）；Light Reading、IEEE ComSoc（中国2025年12月申报）。
+9. FCC：5年离轨规则；星链二代追加授权（2026年1月9日）；亚马逊Leo豁免令DA 26-553（2026年6月5日）。
+10. KeepTrack、亚马逊、azmth/McDowell、国网公开统计。
+11. 美国商务部太空商务办公室；欧洲议会。
+12. ESA《2025年空间环境报告》《零碎片宪章》；KeepTrack、McDowell、SpaceNews（美国太空军AMOS会议）、Marco Langbroek（反卫星碎片）；美国军控协会、凤凰网（李松发言）。
 
 ### 数据核查说明
 
 | 原文/待核说法 | 核实结果 | 来源 |
 |---|---|---|
-| 里程碑：申报后7年内发射首颗，9年10%，12年50%，14年100% | 正确，从ITU收到资料之日起算 | 第35号决议 |
-| 里程碑：申请后7年内启动发射，2年内10%，5年内50%，7年内100% | 与上条为同一规则，但"2/5/7年"应从7年期限届满起算；省略起点易误读，建议统一用前一种表述 | 同上 |
-| "逾期作废" | 7年内未投入使用才注销；错过M1/M2/M3是按已部署数×10、×2、×1削减登记数量 | ITU 2024年研讨会材料 |
-| "先占永得""长期归申报者使用" | 不准确：登记取得的是受保护的使用权，有有效期，不是所有权；低轨星座不分配排他性"轨位" | 国际电联组织法第44条；外层空间条约第二条 |
-| "2025年底中国向ITU一次性申报超过20万颗" | 2025年12月最后一周，多家中国机构分别申报，合计超过20万颗；其中CTC-1、CTC-2各96,714颗，合计193,428颗 | Light Reading、ComSoc等 |
-| 卢旺达申报32.7万颗 | 327,320颗，2021年9月21日提交，CINNAMON-217/937 | Space in Africa |
-| 阿尔忒弥斯签署国 | 2026年9月25日圣马力诺签署后为76国；2025年底59国，2024年底52国 | NASA、美国国务院 |
-| 宇宙954号赔偿 | 加拿大索赔约604万加元，苏联1981年4月2日议定书支付300万加元 | 加拿大条约数据库 |
-| 联大第77/41号决议 | 2022年12月7日，155票赞成、9票反对、9票弃权 | 联合国数字图书馆 |
-| 《月球协定》缔约国 | 17国（沙特退出于2024年1月5日生效） | McGill、UNOOSA |
-| 中国航天法 | 列入十四届人大常委会立法规划第二类项目；未检索到提请审议报道 | 立法规划原文 |
-| 营救/责任/登记缔约国 | 已核实（第二轮）→ 100、100、约78（登记2025年初76，厄瓜多尔2025年加入）；表12-1、图12-2已改 | UNOOSA 2025/CRP.9及Corr.1、2026/CRP.21 |
-| ILRS伙伴 | 已核实（第二轮）→ 中方口径（2025年4月）17个国家和国际组织、50多家机构，其中签约国家13个（含中俄）；与第三部分统一，表12-3、图12-4已改 | 中国政府网、SpaceNews |
-| 泰国、塞内加尔签署阿尔忒弥斯 | 已核实（第二轮）→ 2024年12月16日、2025年7月24日 | NASA |
-| "拉希德2号"退出嫦娥七号 | 已核实（第二轮）→ 2023年3月媒体援引匿名人士称因ITAR受阻，无官方声明；正文改为"合作受阻" | SpaceNews、Gizmodo |
-| 星链"十万次量级"避碰 | 已改（第二轮）→ 148,696次、207,152次，与图7-5一致 | SpaceX向FCC报告 |
-| ESA 2025报告数字 | 已核实（第二轮）→ 跟踪约4万、活跃约1.1万、>10厘米约5.4万、1—10厘米约120万；2026年7月约4.7万 | ESA |
-| ADRAS-J/J2、ClearSpace-1、MEV | 已核实（第二轮）→ 15米（2024年12月）；J2于2026年9月签Isar发射合同，目标日本2027财年；ClearSpace-1由OHB牵头，2029年；MEV-1于2025年4月分离 | Astroscale、ESA、诺格 |
-| TraCSS、《欧盟太空法》 | 已核实（第二轮）→ TraCSS 2026财年获国会恢复拨款，2027财年请求再提搁置；欧盟太空法尚无理事会总体立场和议会表决 | SpaceNews、Breaking Defense、欧洲议会 |
-| WRC-27议题 | 已核实（第二轮）→ 1.13直连手机、1.15月球通信；EPFD非正式议题，仅研究报告；删去"里程碑"议题 | RSGB、Transfinite |
-| 第77/41号决议 | 已核实（第二轮）→ 9张反对票与9张弃权票完整名单已写入正文和图13-4 | SpacePolicyOnline |
-| 宇宙954号面积；Neo Space Group | 已改（第二轮）→ 约12.4万平方公里（搜寻与污染范围）；2024年5月27日成立 | 加拿大卫生部；PIF |
+| 里程碑"7/9/12/14年"与"7年后2/5/7年" | 同一规则，后者从7年期限届满起算；建议用前一种 | 第35号决议 |
+| "逾期作废""先占永得" | 7年内未投入使用才注销；错过M1—M3按已部署数×10、×2、×1削减；登记是有期限的使用权 | ITU材料；组织法第44条 |
+| 中国申报超过20万颗；卢旺达32.7万颗 | 多家机构分别申报，CTC-1/2合计193,428颗；卢旺达327,320颗（2021年9月21日） | Light Reading；Space in Africa |
+| 营救/责任/登记缔约国 | 已核实（第三轮）→ 2025年初100、100、76；马来西亚2025年9月26日交存《登记公约》加入书，加上厄瓜多尔，2026年初约78 | UNOOSA 2025版；马来西亚科技创新部 |
+| 外空委110国 | 已核实（第三轮）→ 6国2025年底获准加入，原文"2026年加入"已改 | 马尔代夫外交部、澳大利亚发言 |
+| 阿尔忒弥斯76国及2026年序号 | 已核实（第三轮）→ 截至10月初仍为76；约旦4月23日第63，土耳其8月31日第71，吉布提9月14日第72 | NASA、美国国务院 |
+| 航天法2018年列入第二类 | 已核实（第三轮） | 西北工业大学学报2019年第4期 |
+| 阿联酋空间法 | 已补（第三轮）→ 资源细则见2023年内阁第19号决议 | 阿联酋立法门户 |
+| 沙迦大学加入ILRS | 已核实（第三轮）→ 2023年11月14日与深空探测实验室签署 | SpaceNews |
+| 铱星—宇宙碰撞"约2000块" | 已改（第三轮）→ "2000多块"（2012年累计约2,200块） | CelesTrak |
+| 第35号决议老系统"各另加30天宽限" | 已改（第三轮）→ 是在其后30天内（2月1日前）报送部署情况，不是宽限 | WRC-23文件 |
+| 卢旺达"550至643公里" | 已改（第三轮）→ 550—640公里；申报方关联E-Space | Space in Africa、Advanced Television |
+| 图13-2数字 | 已核实（第三轮）→ 星链10,898（8月5日）、国网204、亚马逊396、鸿鹄-3 1万；千帆238颗为发射数（McDowell计约22颗失效），1.4万为规划数，已改标注 | KeepTrack、azmth、亚马逊 |
+| 亚马逊Leo、星链二代 | 已核实（第三轮）→ 6月5日有条件豁免，优先权损失至2028年3月30日或达50%；星链二代1.5万颗，搁置14,988颗 | FCC DA 26-553；路透 |
+| 图13-3碎片 | 已核实/改（第三轮）→ 中国3,534块、在轨2,318；美国约174块，最后一块2009年10月再入（原"数月内全部再入"）；印度125块，2022年6月14日全部再入；俄罗斯1,783块（原约1,800），残余或至2033年（原"2024年前后基本再入"） | KeepTrack、McDowell、SpaceNews、Langbroek |
+| 图13-4承诺国 | 已核实（第三轮）→ 2023年4月13国；2025年1月38国 | SpacePolicyOnline、SWF |
+| 中方对第77/41号决议的立场 | 已补（第三轮）→ 一委表决154:8:10；李松大使称美方倡议不限制自身军力、只涉及试验 | 美国军控协会；凤凰网 |
+| 欧盟太空法 | 已核实（第三轮）→ 报告草案2026年3月3日；未见理事会总体立场、ITRE表决或三方谈判；美方评论2025年11月4日 | 太空商务办公室、律所分析 |
+| 汤加、WRC-27、零碎片宪章、图12-1 | 已核实（第三轮）→ 汤加1990年申报16个轨位，后获6—9个；WRC-27定于上海（2027年10月11日—11月12日）；宪章2023年11月发布 | ITU、ESA |
+| 宇宙954号、第77/41号决议、《月球协定》17国、星链避碰、ESA报告、ADR、TraCSS、WRC-27议题、ILRS 13国 | 已核实（前两轮） | 见前两轮 |
 
 ### 未能核实、请作者确认的事项
 
-1. UNOOSA 2026年1月1日版状态表（A/AC.105/C.2/2026/CRP.9/Rev.1）原文网站被网络拦截，未能直接读取；营救、责任两公约按2025年版"100"写入，登记公约"约78"来自二手资料，演讲前宜以该文件复核。
-2. 中方对第77/41号决议的投票解释原文（见联大第一委员会记录A/C.1/77/PV.28），文中按反对方共同理由和中方一贯立场概述。
-3. MEV-2是否已在2026年与IS-10-02分离；《欧盟太空法》议会表决与理事会总体立场的最新时间。
-4. 俄方提及的吉布提、玻利维亚等是否已正式加入ILRS。
+1. UNOOSA 2026年版状态表（CRP.9/Rev.1）及维基、McGill等转载页均被网络拦截；"约78"由2025年版76国加厄瓜多尔、马来西亚推得，营救、责任两公约2025年后有无新增未能确认。
+2. 中方在一委对L.62的正式解释性发言原文（A/C.1/77/PV.28）被拦截；正文改用军控协会转述和李松大使在日内瓦的发言。
+3. MEV-2：检索未见2026年与IS-10-02分离的公开报道（原计划服务约5年至2026年），正文未作分离表述。
+4. 吉布提、玻利维亚、埃塞俄比亚仅见俄航天集团2025年4月在金砖会议上的列举，中方未确认；中方最新口径为"约20个国家以不同形式参与"（深空探测实验室），未见名单，正文仍用13国。
+5. 阿联酋2019年第12号联邦法的确切颁布日期、千帆在ITU的确切申报数，未找到一手来源。
